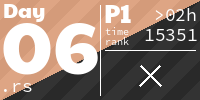
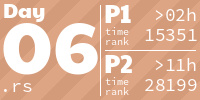
Day 07 - Solution

diff --git a/src/bin/07.rs b/src/bin/07.rs
@@ -1,0 +1,165 @@
+use adv_code_2024::*;
+use anyhow::*;
+use code_timing_macros::time_snippet;
+use const_format::concatcp;
+use std::fs::File;
+use std::io::{BufRead, BufReader};
+
+const DAY: &str = "07";
+const INPUT_FILE: &str = concatcp!("input/", DAY, ".txt");
+
+const TEST: &str = "\
+190: 10 19
+3267: 81 40 27
+83: 17 5
+156: 15 6
+7290: 6 8 6 15
+161011: 16 10 13
+192: 17 8 14
+21037: 9 7 18 13
+292: 11 6 16 20";
+// Try adding "+" and "*" and find out if it is possible to get the result number
+// Evaluate the expression always from left to right, ignoring the operator precedence
+
+fn main() -> Result<()> {
+    start_day(DAY);
+
+    //region Part 1
+    println!("=== Part 1 ===");
+
+    fn is_possible(result: usize, operands: &[usize]) -> bool {
+        for i in 0..(1 << (operands.len() - 1)) {
+            let mut value = operands[0];
+            for j in 0..operands.len() - 1 {
+                if i & (1 << j) != 0 {
+                    value += operands[j + 1];
+                } else {
+                    value *= operands[j + 1];
+                }
+            }
+            if value == result {
+                return true;
+            }
+        }
+        false
+    }
+
+    fn part1<R: BufRead>(reader: R) -> Result<usize> {
+        let equations: Vec<(usize, Vec<usize>)> = reader
+            .lines()
+            .map(|line| {
+                let line = line.unwrap();
+                let mut parts = line.split(": ");
+                let result = parts.next().unwrap().parse::<usize>().unwrap();
+                let operands = parts
+                    .next()
+                    .unwrap()
+                    .split(" ")
+                    .map(|x| x.parse::<usize>().unwrap())
+                    .collect();
+                (result, operands)
+            })
+            .collect();
+        let mut sum = 0;
+
+        for (result, operands) in equations {
+            if is_possible(result, &operands) {
+                sum += result;
+            }
+        }
+
+        Ok(sum)
+    }
+
+    assert_eq!(3749, part1(BufReader::new(TEST.as_bytes()))?);
+
+    let input_file = BufReader::new(File::open(INPUT_FILE)?);
+    let result = time_snippet!(part1(input_file)?);
+    println!("Result = {}", result);
+    //endregion
+
+    //region Part 2
+    println!("\n=== Part 2 ===");
+
+    fn concat(a: usize, b: usize) -> usize {
+        let mut num = b;
+        let mut len = 0;
+        while num > 0 {
+            num /= 10;
+            len += 1;
+        }
+        a * 10usize.pow(len as u32) + b
+    }
+
+    fn is_possible_pt2(result: usize, operands: &[usize]) -> bool {
+        let mut newoperands = operands.to_vec();
+        if operands.len() == 1 {
+            return operands[0] == result;
+        }
+
+        if operands[0] > result {
+            return false;
+        }
+
+        let val1 = newoperands.remove(0);
+        let val2 = newoperands.remove(0);
+
+        // add
+        newoperands.insert(0, val1 + val2);
+        if is_possible_pt2(result, newoperands.as_slice()) {
+            return true;
+        }
+        newoperands.remove(0);
+
+        // mul
+        newoperands.insert(0, val1 * val2);
+        if is_possible_pt2(result, newoperands.as_slice()) {
+            return true;
+        }
+        newoperands.remove(0);
+
+        // concat
+        newoperands.insert(0, concat(val1, val2));
+        if is_possible_pt2(result, newoperands.as_slice()) {
+            return true;
+        }
+
+        false
+    }
+
+    fn part2<R: BufRead>(reader: R) -> Result<usize> {
+        let equations: Vec<(usize, Vec<usize>)> = reader
+            .lines()
+            .map(|line| {
+                let line = line.unwrap();
+                let mut parts = line.split(": ");
+                let result = parts.next().unwrap().parse::<usize>().unwrap();
+                let operands = parts
+                    .next()
+                    .unwrap()
+                    .split(" ")
+                    .map(|x| x.parse::<usize>().unwrap())
+                    .collect();
+                (result, operands)
+            })
+            .collect();
+        let mut sum = 0;
+
+        for (result, operands) in equations {
+            if is_possible_pt2(result, &operands) {
+                sum += result;
+            }
+        }
+
+        Ok(sum)
+    }
+
+    assert_eq!(11387, part2(BufReader::new(TEST.as_bytes()))?);
+
+    let input_file = BufReader::new(File::open(INPUT_FILE)?);
+    let result = time_snippet!(part2(input_file)?);
+    println!("Result = {}", result);
+    //endregion
+
+    Ok(())
+}

diff --git a/README.md b/README.md
@@ -2,7 +2,7 @@
 
 <!-- AOC TILES BEGIN -->
 <h1 align="center">
-  2024 - 11 ⭐ - Rust
+  2024 - 14 ⭐ - Rust
 </h1>
 <a href="src/bin/01.rs">
   <img src=".aoc_tiles/tiles/2024/01.png" width="161px">
@@ -21,5 +21,8 @@
 </a>
 <a href="src/bin/06.rs">
   <img src=".aoc_tiles/tiles/2024/06.png" width="161px">
+</a>
+<a href="src/bin/07.rs">
+  <img src=".aoc_tiles/tiles/2024/07.png" width="161px">
 </a>
 <!-- AOC TILES END -->
